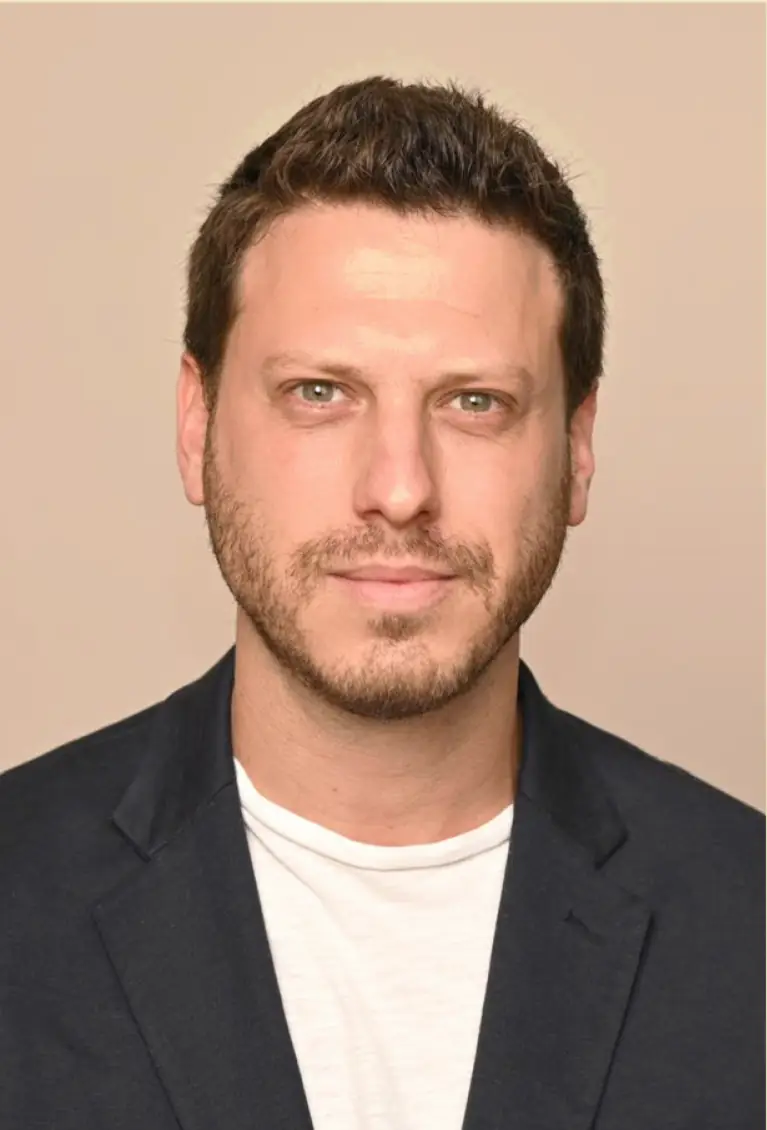
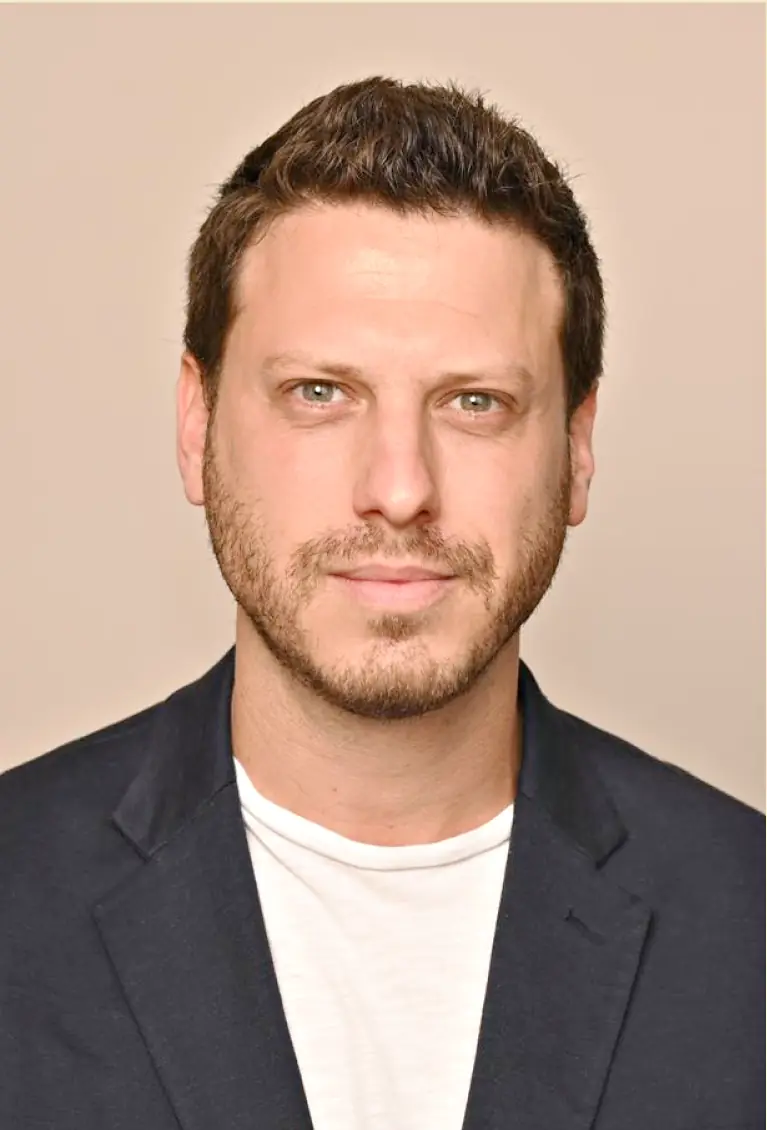
Website: work in progress (brighter photo grade, removing the most artificial-looking photos)
Claude-Session: https://claude.ai/code/session_01VuxLVsRbY8wAYwA5WeMdUN

Changed region(s): [[0.9896, 0.7124, 1.0, 1.0], [0.4198, 0.1239, 0.5098, 0.1549]]

diff --git a/site/assets/css/page-friday.css b/site/assets/css/page-friday.css
@@ -48,23 +48,31 @@
     .fr-promise__photo { aspect-ratio: 4 / 3; max-block-size: calc(70svh - var(--space-9) * 2); inline-size: 100%; }
   }
 
-  /* ── 3. ככה נראה הבוקר (beige): the shared timeline + a sticky photo that follows the step at mid-screen ── */
+  /* ── 3. ככה נראה הבוקר (beige): the shared timeline + (desktop) a sticky navy panel that follows the step at mid-screen ── */
   .fr-morning__grid { display: grid; gap: var(--space-8); margin-block-start: var(--space-8); }
   .fr-morning__note { margin-block-start: var(--space-7); padding-inline-start: var(--space-7); }
-  /* phones: the photo sits under the timeline (4:3); desktop: sticky beside it (4:5). Three stacked images, the one
-     for the step at mid-screen is shown (follow-the-middle in scroll.js); the first shows until then. */
-  .fr-morning__photo { aspect-ratio: 4 / 3; inline-size: 100%; }
-  .fr-morning__photo > .fr-morning__img { position: absolute; inset: 0; opacity: 0; transition: opacity var(--dur-slow) var(--ease-out); }
-  .fr-morning__photo > .fr-morning__img--1 { object-position: 50% 50%; }
-  .fr-morning__photo > .fr-morning__img--2 { object-position: 20% 60%; }
-  .fr-morning__photo > .fr-morning__img--3 { object-position: 78% 35%; }
-  .fr-morning__photo > .fr-morning__img[data-active],
-  .fr-morning__photo:not(:has(> [data-active])) > .fr-morning__img--1 { opacity: 1; }
+  /* the panel: the step at mid-screen in large type (follow-the-middle in scroll.js); the first shows until then.
+     Phones read the timeline alone (the panel would only repeat it under the list). */
+  .fr-morning__media { display: none; }
   @media (min-width: 64rem) {
     .fr-morning__grid { grid-template-columns: repeat(12, minmax(0, 1fr)); column-gap: var(--gutter); align-items: start; }
     .fr-morning__steps { grid-column: 1 / span 5; padding-block: var(--space-6) var(--space-11); }
-    .fr-morning__media { grid-column: 7 / -1; position: sticky; inset-block-start: calc(var(--header-h) + var(--space-6)); }
-    .fr-morning__photo { aspect-ratio: 4 / 5; max-block-size: calc(100svh - var(--header-h) - 4rem); }
+    .fr-morning__media { display: block; grid-column: 7 / -1; position: sticky; inset-block-start: calc(var(--header-h) + var(--space-6)); }
+    .fr-morning__panel {
+      position: relative; aspect-ratio: 4 / 5; max-block-size: calc(100svh - var(--header-h) - 4rem); inline-size: 100%;
+      border-radius: var(--radius-panel); overflow: hidden; background: var(--navy); color: var(--beige);
+    }
+    .fr-morning__slide {
+      position: absolute; inset: 0; display: grid; grid-template-rows: auto 1fr auto auto; gap: var(--space-3); padding: var(--space-8);
+      opacity: 0; transition: opacity var(--dur-slow) var(--ease-out), background-color var(--dur-slow) var(--ease-out);
+    }
+    .fr-morning__slide--2 { background: var(--navy-800); }
+    .fr-morning__slide--3 { background: var(--navy-700); }
+    .fr-morning__slide[data-active],
+    .fr-morning__panel:not(:has(> [data-active])) > .fr-morning__slide--1 { opacity: 1; }
+    .fr-morning__count { font-size: var(--fs-small); font-weight: var(--wght-semibold); letter-spacing: 0.08em; color: var(--beige-quiet); font-variant-numeric: tabular-nums; }
+    .fr-morning__time { grid-row: 3; font-size: var(--fs-title); line-height: var(--lh-title); font-weight: var(--wght-semibold); color: var(--beige-quiet); }
+    .fr-morning__big { grid-row: 4; font-size: var(--fs-display); line-height: 0.98; letter-spacing: var(--track-display); font-weight: var(--wght-bold); max-inline-size: 7ch; }
   }
   .fr-gallery { margin-block-start: var(--space-9); }
   .fr-gallery__list { display: grid; gap: var(--gutter); margin-block-start: var(--space-6); grid-template-columns: repeat(auto-fit, minmax(min(100%, 18rem), 1fr)); }

diff --git a/site/assets/css/page-home.css b/site/assets/css/page-home.css
@@ -42,6 +42,18 @@
   .verb__name { font-size: var(--fs-chapter); line-height: 1; letter-spacing: var(--track-chapter); font-weight: var(--wght-bold); }
   .verb__text { display: grid; gap: var(--space-2); }
   .verb__what { font-size: var(--fs-lead); font-weight: var(--wght-semibold); line-height: var(--lh-title); }
+  /* each verb's field: a navy panel with the moment in large type (the photos it once held looked staged) */
+  .verb__field {
+    display: grid; grid-template-rows: auto 1fr auto; gap: var(--space-3); min-block-size: 15rem; padding: var(--space-6);
+    border-radius: var(--radius-panel); background: var(--navy); color: var(--beige);
+  }
+  .verb__field--2 { background: var(--navy-800); }
+  .verb__field--3 { background: var(--navy-700); }
+  .verb__num { font-size: var(--fs-small); font-weight: var(--wght-semibold); letter-spacing: 0.08em; color: var(--beige-quiet); font-variant-numeric: tabular-nums; }
+  .verb__field .verb__what {
+    align-self: end; font-size: var(--fs-chapter); line-height: 1.02; letter-spacing: var(--track-chapter); font-weight: var(--wght-bold); max-inline-size: 12ch;
+  }
+  .verb__body { color: var(--beige-quiet); max-inline-size: 38ch; }
   @media (min-width: 64rem) {
     .verbs__grid { display: grid; grid-template-columns: repeat(12, minmax(0, 1fr)); column-gap: var(--gutter); align-items: start; }
     .verbs__index {
@@ -57,6 +69,7 @@
     .verbs__index li[data-active] .tri { opacity: 1; transform: none; }
     .verbs__list { grid-column: 7 / -1; gap: var(--space-11); padding-block-start: var(--space-3); }
     .verb__name { font-size: var(--fs-title); line-height: var(--lh-title); }
+    .verb__field { aspect-ratio: 2 / 1; min-block-size: 0; padding: var(--space-7); }
   }
 
   /* ── 3 · פה תמיד ── */
@@ -92,6 +105,8 @@
   .types { display: grid; gap: var(--gutter); }
   .types > li { display: flex; }
   .types .type { inline-size: 100%; }
+  .types .type--mid { background: var(--navy-700); }
+  @media (max-width: 47.99rem) { .types .type { min-block-size: 10rem; } } /* text-only tiles: no tall empty fields on phones */
   @media (min-width: 48rem) { .types { grid-template-columns: repeat(3, minmax(0, 1fr)); } }
   @media (min-width: 64rem) {
     .meetings__friday { grid-template-columns: repeat(12, minmax(0, 1fr)); align-items: start; }

diff --git a/site/assets/css/page-evenings.css b/site/assets/css/page-evenings.css
@@ -1,6 +1,6 @@
 /* Women's evenings and other meetings (pages/evenings.mjs). Page compositions only: semantic tokens + shared classes.
    Rhythm: navy hero with an index of the three kinds → women (beige, a brand colour field: no stand-in photo) →
-   bonfire (navy, the bonfire photo + live dates) → other meetings (beige-light, live dates) → closing (navy). */
+   bonfire (navy, the hills photo + live dates) → other meetings (beige-light, live dates) → closing (navy). */
 @layer pages {
   /* ── hero: the title at the reading edge, the three kinds as large row links at the inline-end ── */
   .ev-hero { padding-block: clamp(3rem, 2rem + 5vw, 7rem) var(--chapter-pad); }
@@ -31,9 +31,9 @@
     .ev-women__field { grid-column: 8 / -1; aspect-ratio: 4 / 5; }
   }
 
-  /* ── bonfire evenings: the photo wide at the inline-end, then the live dates ── */
+  /* ── bonfire evenings: the hills at dusk wide at the inline-end, then the live dates ── */
   .ev-bonfire__grid { display: grid; gap: var(--space-8); }
-  .ev-bonfire__photo img { object-position: 50% 45%; }
+  .ev-bonfire__photo img { object-position: 50% 55%; }
   @media (min-width: 64rem) {
     .ev-bonfire__grid { grid-template-columns: repeat(12, minmax(0, 1fr)); column-gap: var(--gutter); align-items: center; }
     .ev-bonfire__grid > .ev-kind__text { grid-column: 1 / span 5; }

diff --git a/site/assets/css/page-partners.css b/site/assets/css/page-partners.css
@@ -10,7 +10,7 @@
   .pt-hero__text .cluster { margin-block-start: var(--space-5); }
   .pt-hero__media { position: relative; }
   .pt-hero__photo { aspect-ratio: 4 / 3; }
-  .pt-hero__photo img { object-position: 60% 50%; }
+  .pt-hero__photo img { object-position: 50% 18%; } /* sky above the heads: the corner stripes sit there */
   .pt-hero__media .corner { color: var(--ground); z-index: 1; inline-size: clamp(5rem, 3rem + 8vw, 11rem); block-size: clamp(3rem, 1.6rem + 4.6vw, 6.4rem); }
   @media (min-width: 64rem) {
     .pt-hero__grid { grid-template-columns: repeat(12, minmax(0, 1fr)); column-gap: var(--gutter); align-items: center; }

diff --git a/site/assets/css/page-membership.css b/site/assets/css/page-membership.css
@@ -19,6 +19,7 @@
   .member-steps { margin-block-start: var(--space-7); }
   .member-steps .timeline__list { gap: var(--space-7); }
   .member-how__action { display: grid; justify-items: start; gap: var(--space-3); margin-block-start: var(--space-8); }
+  .member-how__photo img { object-position: 30% 60%; } /* the hills: the olive tree, the low sun and the path */
   @media (max-width: 63.99rem) { .member-how__photo { aspect-ratio: 3 / 2; } }
   @media (min-width: 64rem) {
     .member-how__grid { grid-template-columns: repeat(12, minmax(0, 1fr)); align-items: center; }

diff --git a/site/assets/css/page-donate.css b/site/assets/css/page-donate.css
@@ -8,7 +8,7 @@
   .give-hero__lead { margin-block-start: var(--headline-to-lead); }
   .give-hero__actions { margin-block-start: var(--space-7); }
   .give-hero__photo { aspect-ratio: 4 / 3; }
-  .give-hero__photo img { object-position: 30% 70%; }
+  .give-hero__photo img { object-position: 50% 35%; }
   @media (min-width: 64rem) {
     .give-hero__grid { grid-template-columns: repeat(12, minmax(0, 1fr)); column-gap: var(--gutter); align-items: center; }
     .give-hero__text { grid-column: 1 / span 7; }

diff --git a/site/tools/resize-photos.py b/site/tools/resize-photos.py
@@ -1,15 +1,23 @@
 #!/usr/bin/env python3
 """One-off helper (NOT part of the build): make the responsive variants of a photo for site/assets/photos/.
 
-    python3 site/tools/resize-photos.py [--grade] path/to/photo.webp [more…]
+    python3 site/tools/resize-photos.py [--grade | --portrait] [--name <name>] path/to/photo.png [more…]
 
 For each source it writes <name>-<width>.webp at 480, 720, 960 and the largest size (the source width, at most 1440),
-WebP quality 70 (method 6) after a 0.5px denoise (the grain costs bytes, not detail): a phone gets the 480/720 file, a desktop column the 960, a full-width hero the largest.
---grade first applies the site's bright, natural grade (exposure and shadows lifted per image toward one target, a 5%
-warm wash toward brand beige, no duotone), so the variants come from one graded image, not from an earlier WebP.
+WebP quality 72 (method 6) after a light sharpen at the output size (graded sources are denoised first): a phone gets the 480/720 file, a desktop column
+the 960, a full-width hero the largest.
+--grade first applies the site's bright, vivid grade (see GRADE below), so the variants come from one graded image,
+not from an earlier WebP. Run every illustrative photo through it, from its original, so the set stays consistent.
+--portrait applies the gentle portrait grade instead (a little brighter and clearer; skin colour left natural).
 --name <name> sets the output name (default: the source file name); a transparent source is flattened on beige.
 The build (site/build.mjs) finds the variants by file name and reads their sizes from the files, so nothing else
 needs updating: use ctx.img('<name>', …) in a page. Needs Pillow. The generated files are committed; CI never runs this.
+
+Reproduce the current set (originals: the 1792×2240 / 1600×905 PNG/WebP masters and the founders' portraits from
+hemshechtnua.org.il /images/ariel.png and /images/elazar.png):
+    resize-photos.py --grade training.png walk.png hills.webp
+    resize-photos.py --portrait --name team-ariel ariel.png
+    resize-photos.py --portrait --name team-elazar elazar.png
 """
 import glob
 import math
@@ -20,56 +28,78 @@ from PIL import Image, ImageEnhance, ImageFilter, ImageOps, ImageStat
 
 WIDTHS = (480, 720, 960)
 MAX_WIDTH = 1440
-QUALITY = 70
-DENOISE = 0.5  # px Gaussian at the output size: the illustrative photos carry grain WebP spends ~25% of its bytes on
+QUALITY = 72
 OUT = os.path.join(os.path.dirname(os.path.abspath(__file__)), '..', 'assets', 'photos')
+BEIGE = (0xEB, 0xDC, 0xB9)
 
-# The site grade: "bright and fresh" (replaced the navy/beige duotone on 24.11, owner: "תבהיר את התמונות").
-#   exposure: a per-image gamma that brings the mean luminance toward TARGET, bounded so night scenes stay evening
-#   shadows: a soft toe opens the lower tones and the black point lifts a little; a soft shoulder protects highlights
-#   colour: natural (saturation ~0.97, a touch of contrast back) and a 5% warm wash toward brand beige in light tones
-TARGET = 0.56
-GAMMA_MIN, GAMMA_MAX = 0.62, 1.0
-LIFT = 0.04
-SAT = 0.97
-CONTRAST = 1.05
-WARM, WARM_MIX = (0xEB, 0xDC, 0xB9), 0.05
+# GRADE — "bright and vivid" (25.11, owner: "תבהיר את התמונות ותדגיש צבעים").
+#   exposure: a per-image gamma that brings the mean luminance toward TARGET (bounded, so a sunset stays a sunset)
+#   shadows/midtones: a toe that opens the lower tones (SHADOWS), a midtone bump (MIDS), the black point lifted by LIFT;
+#                     a soft shoulder keeps highlights from clipping
+#   colour: saturation ×SAT for every pixel, plus VIBRANCE more for the muted ones (grass, sky, foliage gain the most,
+#           already-strong colours and skin the least); HUES adds a little more to foliage greens and sky blues
+#           ((centre, half-width, extra) on Pillow's 0–255 hue scale: green ≈ 80, blue ≈ 150; skin tones are left out);
+#           CONTRAST puts back the snap the lift takes out
+#   crisp: DENOISE (px Gaussian on the master: the grain costs bytes, not detail), then an unsharp mask at each output
+#          size (SHARPEN = radius, percent, threshold; the threshold leaves the grain alone) — crisper than before at
+#          about the same file size
+GRADE = dict(TARGET=0.64, GAMMA_MIN=0.55, GAMMA_MAX=1.0, SHADOWS=0.20, MIDS=0.05, LIFT=0.025,
+             SAT=1.32, VIBRANCE=0.35, CONTRAST=1.10, HUES=((80, 32, 0.22), (150, 24, 0.22)), DENOISE=0.8)
+# PORTRAIT — faces stay natural: a little exposure and shadow lift, a touch of local contrast (clarity), no colour push.
+PORTRAIT = dict(TARGET=0.64, GAMMA_MIN=0.80, GAMMA_MAX=1.0, SHADOWS=0.14, MIDS=0.03, LIFT=0.015,
+                SAT=1.04, VIBRANCE=0.0, CONTRAST=1.0, CLARITY=(24, 14, 2), DENOISE=0.4)
+SHARPEN = (1.0, 60, 4)        # 960 and up
+SHARPEN_SMALL = (0.8, 45, 6)  # 480/720: already crisp from the downscale; a lighter mask keeps the phone files light
 
 
-def _curve(gamma):
+def _curve(gamma, g):
     lut = []
     for i in range(256):
         x = i / 255
-        y = x ** gamma + 0.18 * x * (1 - x) ** 3
-        if y > 0.75:
-            y = 1 - (1 - y) ** 1.08
-        y = LIFT + y * (1 - LIFT)
+        y = x ** gamma + g['SHADOWS'] * x * (1 - x) ** 3 + g['MIDS'] * math.sin(math.pi * x) ** 2
+        if y > 0.8:  # soft shoulder: compress what would clip
+            y = 0.8 + 0.2 * (1 - math.exp(-(y - 0.8) / 0.2)) / (1 - math.exp(-1))
+        y = g['LIFT'] + min(1.0, y) * (1 - g['LIFT'])
         lut.append(max(0, min(255, round(y * 255))))
     return lut
 
 
-def grade(im):
+def grade(im, g=GRADE):
     im = im.convert('RGB')
     mean = ImageStat.Stat(ImageOps.grayscale(im)).mean[0] / 255
-    gamma = math.log(TARGET) / math.log(max(1e-3, min(0.99, mean)))
-    out = im.point(_curve(max(GAMMA_MIN, min(GAMMA_MAX, gamma))) * 3)
-    out = ImageEnhance.Contrast(out).enhance(CONTRAST)
-    out = ImageEnhance.Color(out).enhance(SAT)
-    mask = ImageOps.grayscale(out).point(lambda v: round(255 * WARM_MIX * (v / 255) ** 1.5))
-    return Image.composite(Image.new('RGB', out.size, WARM), out, mask)
+    gamma = math.log(g['TARGET']) / math.log(max(1e-3, min(0.99, mean)))
+    out = im.point(_curve(max(g['GAMMA_MIN'], min(g['GAMMA_MAX'], gamma)), g) * 3)
+    out = ImageEnhance.Contrast(out).enhance(g['CONTRAST'])
+    base = ImageEnhance.Color(out).enhance(g['SAT'])
+    if g['VIBRANCE']:
+        # vibrance: blend toward a stronger saturation where the pixel is still muted (low HSV saturation)
+        strong = ImageEnhance.Color(out).enhance(g['SAT'] + g['VIBRANCE'])
+        muted = ImageOps.invert(base.convert('HSV').getchannel('S')).point(lambda v: round(v * 0.85))
+        base = Image.composite(strong, base, muted)
+    for centre, half, extra in g.get('HUES', ()):
+        # a soft hue window (cosine falloff) → that hue range is blended toward a stronger saturation
+        win = [round(255 * 0.5 * (1 + math.cos(math.pi * min(1.0, abs(h - centre) / half)))) for h in range(256)]
+        mask = base.convert('HSV').getchannel('H').point(win)
+        base = Image.composite(ImageEnhance.Color(base).enhance(1 + extra), base, mask)
+    if 'CLARITY' in g:
+        r, p, t = g['CLARITY']
+        base = base.filter(ImageFilter.UnsharpMask(r, p, t))
+    return base.filter(ImageFilter.GaussianBlur(g['DENOISE']))
 
 
-def variants(src, graded=False, name=None):
+def variants(src, mode=None, name=None):
     name = (name or os.path.splitext(os.path.basename(src))[0]).lower()
     im = Image.open(src)
     if im.mode in ('RGBA', 'LA', 'P'):
         im = im.convert('RGBA')
-        bg = Image.new('RGBA', im.size, WARM + (255,))
+        bg = Image.new('RGBA', im.size, BEIGE + (255,))
         bg.alpha_composite(im)
         im = bg
     im = im.convert('RGB')
-    if graded:
-        im = grade(im)
+    if mode == 'grade':
+        im = grade(im, GRADE)
+    elif mode == 'portrait':
+        im = grade(im, PORTRAIT)
     w, h = im.size
     largest = min(w, MAX_WIDTH)
     os.makedirs(OUT, exist_ok=True)
@@ -77,17 +107,17 @@ def variants(src, graded=False, name=None):
         os.remove(old)
     for tw in sorted({min(t, largest) for t in WIDTHS} | {largest}):
         dst = os.path.join(OUT, f'{name}-{tw}.webp')
-        out = im.resize((tw, round(h * tw / w)), Image.LANCZOS).filter(ImageFilter.GaussianBlur(DENOISE))
+        out = im.resize((tw, round(h * tw / w)), Image.LANCZOS).filter(ImageFilter.UnsharpMask(*(SHARPEN if tw >= 960 else SHARPEN_SMALL)))
         out.save(dst, 'WEBP', quality=QUALITY, method=6)
         print(f'{dst}  {os.path.getsize(dst) // 1024} KB')
 
 
 if __name__ == '__main__':
     args = sys.argv[1:]
-    graded = '--grade' in args
+    mode = 'portrait' if '--portrait' in args else 'grade' if '--grade' in args else None
     name = args[args.index('--name') + 1] if '--name' in args else None
-    files = [a for i, a in enumerate(args) if a not in ('--grade', '--name') and (i == 0 or args[i - 1] != '--name')]
+    files = [a for i, a in enumerate(args) if a not in ('--grade', '--portrait', '--name') and (i == 0 or args[i - 1] != '--name')]
     if not files or (name and len(files) > 1):
         sys.exit(__doc__)
     for path in files:
-        variants(path, graded, name)
+        variants(path, mode, name)

diff --git a/site/README.md b/site/README.md
@@ -14,7 +14,7 @@ site/
   lib/               html.mjs (templates), brand.mjs (logo/stripes/◀), images.mjs, components.mjs, sections.mjs (SECTIONS for a page)
   assets/css/        layered CSS, concatenated + fingerprinted into one file
   assets/js/         ES modules (main, nav, scroll, events, org, api), fingerprinted; config.js is generated
-  assets/photos/     <name>-<width>.webp variants (480/720/960/≤1440, bright grade, WebP q70)
+  assets/photos/     <name>-<width>.webp variants (480/720/960/≤1440, bright vivid grade, WebP q72)
   assets/img/        logo-square.png (the JSON-LD logo)
   tools/             resize-photos.py, logo-square.mjs (one-off helpers; not part of the build)
   test/              node --test suites + smoke.cjs (Playwright)
@@ -236,14 +236,21 @@ placeholder that the design system replaces; `components.css` is neutral tempora
 
 ## Photos
 
-`python3 site/tools/resize-photos.py --grade [--name <name>] <file>…` writes `assets/photos/<name>-{480,720,960,≤1440}.webp`
-(Pillow, run once, commit the results): `--grade` applies the site's **bright, natural grade** first (24.11, owner:
-"תבהיר את התמונות": exposure and shadows lifted per image toward one target brightness, highlights protected, natural
-colour with a 5% warm touch toward brand beige, no duotone), then each width is denoised lightly and saved at WebP q70.
-Run every photo through it, so the set stays consistent. Stripes on a photo sit in a corner with no faces. Add
-`photos.<name>` alt text in both languages. `training`, `running`, `talk`, `bonfire`, `walk` and `hills` are
-illustrative: never caption them as specific people or events. `team-elazar` and `team-ariel` are the founders'
-portraits from the association's own site (hemshechtnua.org.il), used through `org.json` `team[].photo`.
+`python3 site/tools/resize-photos.py --grade|--portrait [--name <name>] <file>…` writes `assets/photos/<name>-{480,720,960,≤1440}.webp`
+(Pillow, run once from the originals, commit the results; the exact commands are in the script's docstring).
+`--grade` is the site's **bright, vivid grade** (25.11, owner: "תבהיר את התמונות ותדגיש צבעים"): exposure lifted per
+image toward one target brightness, shadows and midtones opened, highlights protected, saturation and vibrance raised
+(muted colours most; foliage greens and sky blues a little more), a light denoise and an unsharp mask at each size,
+WebP q72. `--portrait` is the gentle version for the founders' portraits (a little brighter and clearer, skin left
+natural). Run every photo through it, so the set stays consistent. Stripes on a photo sit in a corner with no faces.
+Add `photos.<name>` alt text in both languages.
+
+The set: `training`, `walk` and `hills` (illustrative: never caption them as specific people or events) and
+`team-elazar`, `team-ariel`, the founders' portraits from the association's own site (hemshechtnua.org.il), used
+through `org.json` `team[].photo`. The staged-looking `running`, `talk` and `bonfire` were removed (25.11, owner:
+"תוריד תמונות שהם יותר מידיי ai"); their places are brand colour fields with large type (home's three verbs, the
+Friday morning panel, home's bonfire tile) or one of the kept photos where it is not already on that page. Real photos
+from the meetings (with consent) go in `org.json` `photos`.
 
 **Stripes:** one accent per page, in its hero. `ctx.ui.corner()` (and the page helpers built on it) renders only with
 `accent: true`; other chapters are separated by the tone step alone.
